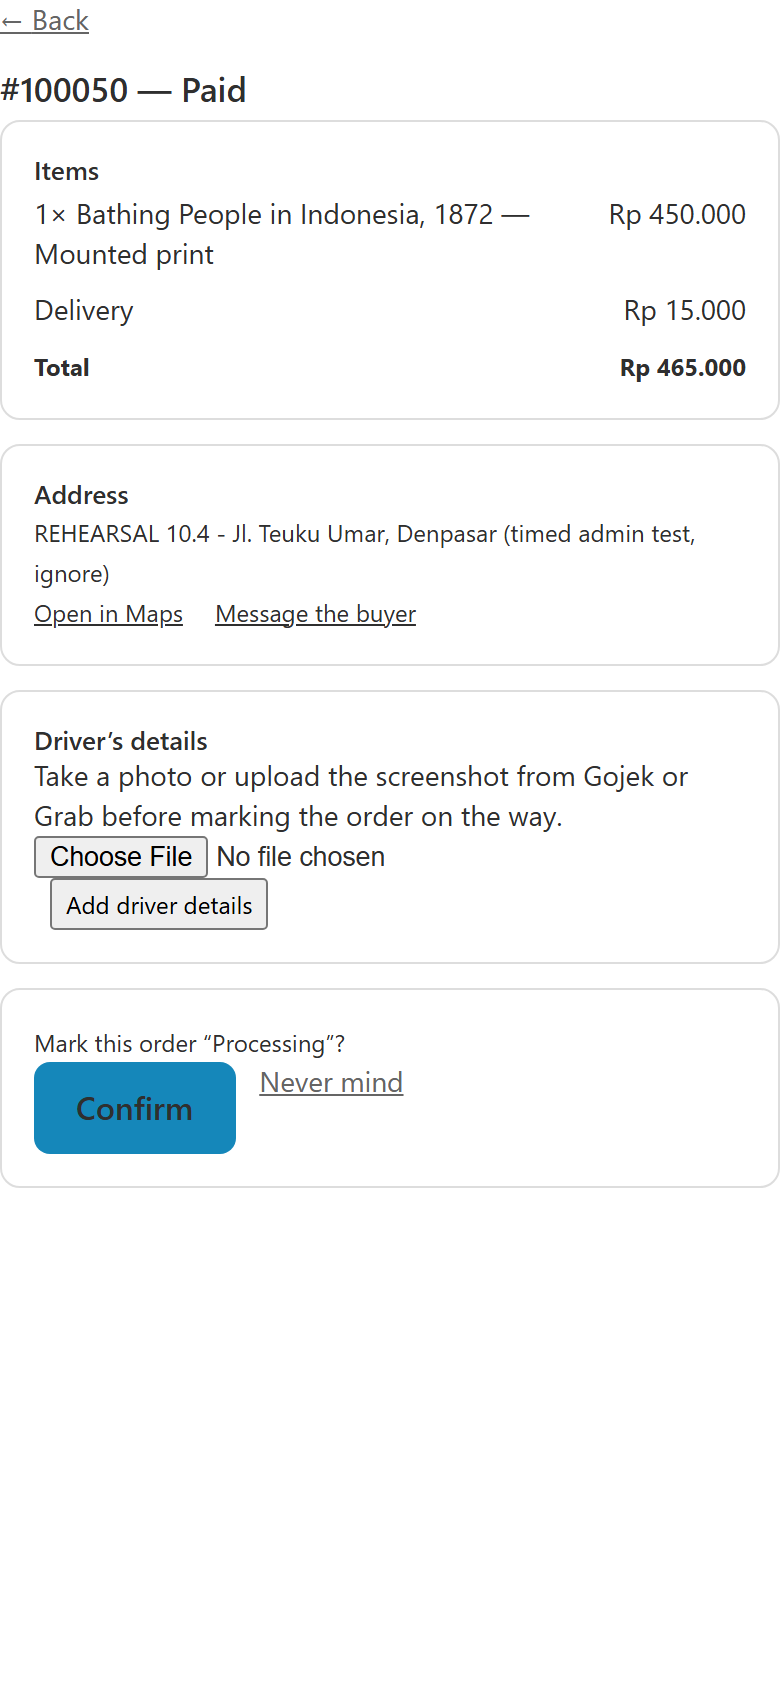
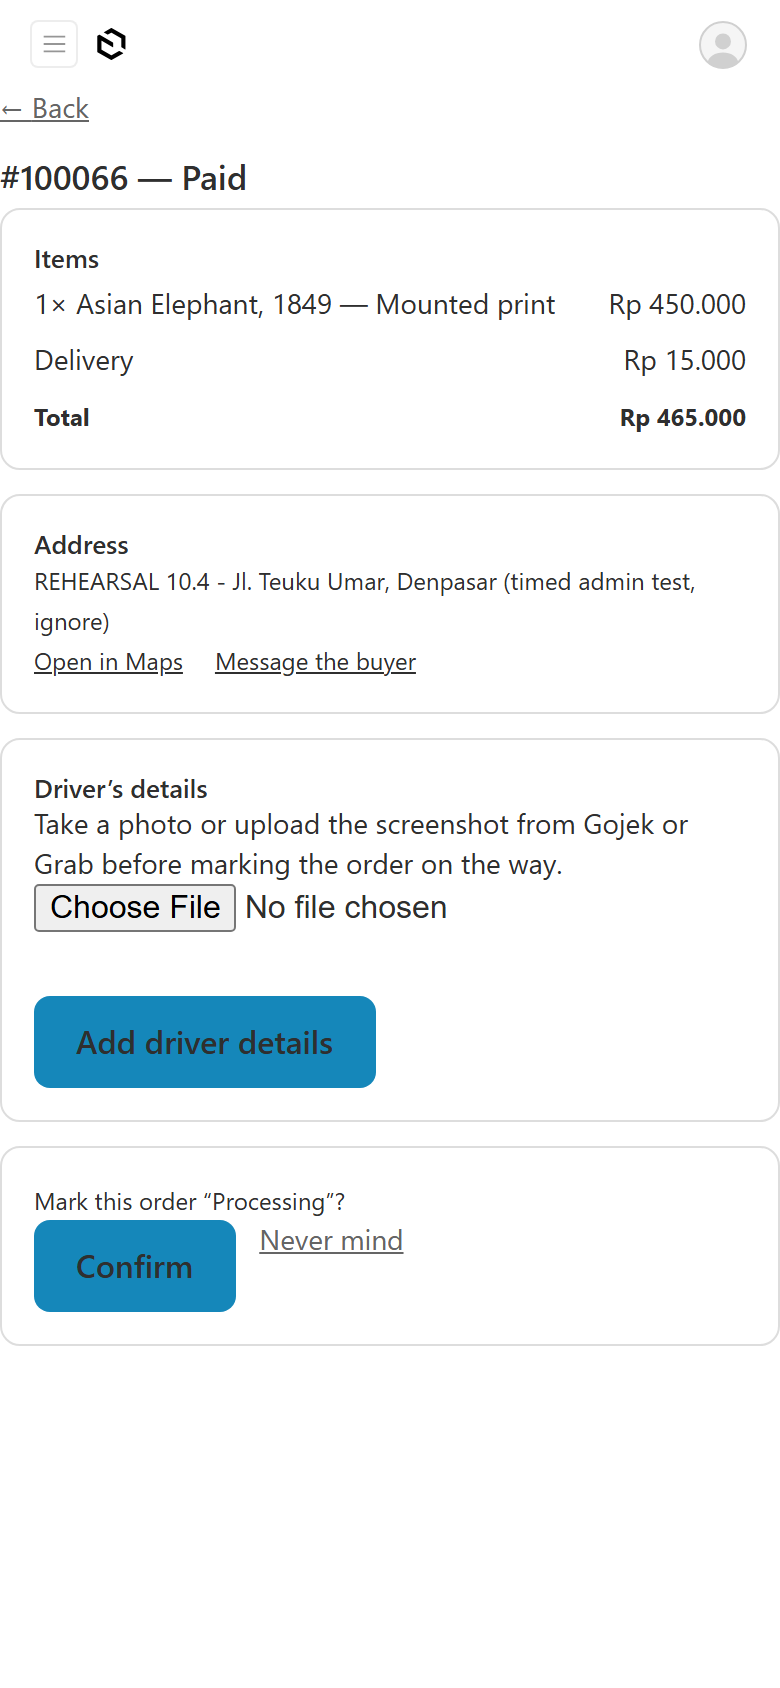
docs(board): 10.8 closed — the admin recipes pass on staging at both widths; phase 10 waits on 10.4 (the owner's people)

diff --git a/tests/e2e/admin-usability/04-store-order.spec.ts b/tests/e2e/admin-usability/04-store-order.spec.ts
@@ -147,7 +147,13 @@ test.describe.serial('R4 store user moves an order to delivered', () => {
     squeezed.push(`orders-list ${await overflow(page)}`)
     const listUrl = page.url()
     done('dashboard to the orders list')
-    await tap('open', page.getByRole('link', { name: new RegExp(`^#?${number}$`) }).first())
+    await tap(
+      'open',
+      page
+        .locator('a[href^="/admin/orders/"]')
+        .filter({ hasText: `#${number}` })
+        .first(),
+    )
     await page.waitForLoadState('networkidle')
     await expect(page).toHaveURL(/\/orders\/\d+/)
     const id = Number(/orders\/(\d+)/.exec(page.url())![1])

diff --git a/TASKS.md b/TASKS.md
@@ -25,9 +25,9 @@ Rebuilt from the checkboxes **automatically** — by the git pre-commit hook on 
 | **7** Shop: fulfilment and tracking | Shop | 6 | ✅ done | 4/4 | 13/13 | 0 | `██████████` 100% |
 | **8** AI | AI | 3, 5, 6 | ✅ done | 4/4 | 16/16 | 0 | `██████████` 100% |
 | **9** Partners, leads, analytics and SEO | Growth | 5, 6 | ✅ done | 4/4 | 16/16 | 0 | `██████████` 100% |
-| **10** Hardening and the staging rehearsal 👤 | Launch | 7, 8, 9 | 🔄 in progress | 6/8 | 28/32 | 1 | `█████████░`  88% |
+| **10** Hardening and the staging rehearsal 👤 | Launch | 7, 8, 9 | 🔄 in progress | 7/8 | 29/32 | 1 | `█████████░`  91% |
 | **11** Launch 👤 | Launch | 10 | · not started | 0/4 | 0/14 | 7 | `░░░░░░░░░░`   0% |
-| **All** | 11 phases | | | **48/54** | **203/221** | **8** | `█████████░`  92% |
+| **All** | 11 phases | | | **49/54** | **204/221** | **8** | `█████████░`  92% |
 <!-- progress:end -->
 
 ## Stages and milestones
@@ -78,7 +78,6 @@ One row per agent in flight. The orchestrator adds a row when it dispatches a ta
 
 | Wave | Task | Agent | Worktree / branch | Since | Note |
 | ---- | ---- | ----- | ----------------- | ----- | ---- |
-| 10·W2 | 10.8 Staff admin gaps from the 10.4 proxy run | medior | `worktree-agent-a5ce820d46bdba8fc` | 2026-10-09 | |
 
 ## Decisions for the owner
 
@@ -781,7 +780,7 @@ Paste this into a Claude Code session opened at the repo root:
   - [x] 10.7.b a payment after expiry (COMMERCE.md §13): if the same store still holds every unit, re-take them in the same transaction and mark the order `paid`; else `paid` with "reassign, or cancel and return the money"; the flag stays until staff clear it, and the panel offers that
   - [x] 10.7.c **Check:** db tests for both (stock short, stock present, concurrent retake); on staging the late-payment spec (`tests/e2e/rehearsal/late-payment.spec.ts`) ends with the order paid at its store, and a replacement of a delivered order reaches the store panel.
 
-- [ ] **10.8 Staff admin gaps from the 10.4 proxy run** · needs: phase 7 — 🔄 10·W2
+- [x] **10.8 Staff admin gaps from the 10.4 proxy run** · needs: phase 7 — ✅ 2026-10-09 bfbb930d
   - **Lane** CMS · **Agent** medior (Sonnet), senior-uiux review · **Wave** W2
   - **Owns** `engine/packages/cms/src/admin/{leads,widgets,dashboard,stock-import}/**`, `engine/packages/cms/src/collections/{products,media,stock-levels}/admin/**` (CONTENT-OPERATIONS.md changes go to 10.4.b)
   - **Read** `docs/gates/admin-usability.md`, CONTENT-OPERATIONS.md §3–§5, 3.7 (the import)
@@ -789,7 +788,7 @@ Paste this into a Claude Code session opened at the repo root:
   - [x] 10.8.a the stock spreadsheet import in the admin (3.7's importer behind an upload screen with its rejected-rows report), or CONTENT-OPERATIONS says how the owner hands it over instead
   - [x] 10.8.b leads: Reply on WhatsApp and Reply by email on a lead; product intake: image fields default sensibly, the category picker lists categories only, a duplicate SKU says which product has it
   - [x] 10.8.c store staff land on their order panel (the dashboard); the driver-details button is phone-sized (with 10.7's owner for `admin/orders/**`); the owner's two sidebar entries both named "Leads" (the list and the inbox) get distinct names
-  - [ ] 10.8.d **Check:** `tests/e2e/admin-usability/` re-run on staging: every recipe passes unaided at its target.
+  - [x] 10.8.d **Check:** `tests/e2e/admin-usability/` re-run on staging: every recipe passes unaided at its target.
 
 ---
 
@@ -860,6 +859,8 @@ Each line is a thing we chose not to build now; design it against the real need 
 - [ ] v2.12 The made-to-order configurator and room plates — _Requirements: 5.1_
 
 ## Log
+
+- 2026-10-09 — ✅ **10.8 closed** (Sonnet built, orchestrator reviewed and finished on staging `252b625a`). **Import stock** (owner, `/admin/stock-import`: CSV preview then apply through the 3.7 importer; `.xlsx` not read — needs a dependency, the user's call), **Reply on WhatsApp / by email** on a lead, the category picker lists categories, a duplicate SKU names its product, image intake guidance (subject, role and provenance deliberately never pre-filled), store staff land on their **Order panel**, **Leads inbox** named apart. Found on the way and fixed by the orchestrator: the custom admin pages (order panel, inbox, import) rendered **without Payload's frame** — no sidebar, so a store user on their panel could not reach Stock — now inside `DefaultTemplate` (`admin/page.jsx`; `@payloadcms/next` 3.90.2 added to the cms package, one copy). **Check:** `tests/e2e/admin-usability/` on staging, every recipe passes at both widths (gate `docs/gates/admin-usability.md`, re-run note). **Follow-ups:** the store user's landing is blank for about a second (the redirect runs in the streamed dashboard; move it to the proxy); `orders.stock_held` column (10.7); the rehearsal specs share checkout's 10/hour per address (wait it out, as here). Phase 10 now waits on **10.4** alone: the owner's people.
 
 - 2026-10-09 — ✅ **10.7 closed** (Opus built, orchestrator reviewed). **Replace damaged item** (owner, editor, on a delivered order): a Rp 0 `replacement` order linked both ways, `processing` at the original's store, stock taken atomically (short → nothing written), history on both, the buyer's tracking email. **Late payments** (COMMERCE.md §13): an expired order is `paid` — units re-taken all-or-none at its store, or flagged "stock gone — reassign, or cancel and refund"; a cancelled order stays cancelled, flagged for a refund; staff **clear the flag** with a note. 13 new db tests incl. ten concurrent replays (stock once) and a late payment racing a checkout for the last unit (sold once). On staging (`production-20261009T091838Z-dad846ef`): `late-payment.spec.ts` (paid at DPS-004, unit re-taken, flag cleared) and `replacement.spec.ts` (the replacement reaches the store panel) pass. **Follow-ups:** an order paid with its stock gone is marked by a history note (`shop/fulfilment/held-units.ts`) — replace with an `orders.stock_held` column in the next migration; the buyer's order page shows no late-payment text now that the order is paid (`server/shop/payment/load-order.ts`); a replacement sends the store no email; a late payment counts its discount use again (can pass `usage_limit` by one).
 

diff --git a/docs/gates/admin-usability.md b/docs/gates/admin-usability.md
@@ -1,6 +1,8 @@
 # Gate — the timed admin tests (10.4)
 
-> **Orchestrator review, 2026-10-09.** (1) **Recipe 5 is not broken, and passes with a stumble:** the shop's Distance bands and Social links rows were *collapsed* (Payload keeps each user's collapsed rows), and a collapsed row shows only its header, so it looked empty. **Show All** opens them: bands 5 km Rp 10,000 / 15 km Rp 15,000 / 30 km Rp 20,000, editable; the shop's AI group and Free delivery over render on every load. (2) Fixed: **F1** and **F2** (the dashboard's Orders to act on and New leads open the panel and the inbox), **F3** ("Rentang jarak"), and a new **Order panel** link in the sidebar for owner, editor and store staff (`admin/orders/nav-link.jsx`) — the cause of recipe 4's "not unaided". (3) The gaps that are features, not fixes, are tasks **10.7** and **10.8** in TASKS.md.
+> **Orchestrator review, 2026-10-09.** (1) **Recipe 5 is not broken, and passes with a stumble:** the shop's Distance bands and Social links rows were _collapsed_ (Payload keeps each user's collapsed rows), and a collapsed row shows only its header, so it looked empty. **Show All** opens them: bands 5 km Rp 10,000 / 15 km Rp 15,000 / 30 km Rp 20,000, editable; the shop's AI group and Free delivery over render on every load. (2) Fixed: **F1** and **F2** (the dashboard's Orders to act on and New leads open the panel and the inbox), **F3** ("Rentang jarak"), and a new **Order panel** link in the sidebar for owner, editor and store staff (`admin/orders/nav-link.jsx`) — the cause of recipe 4's "not unaided". (3) The gaps that are features, not fixes, are tasks **10.7** and **10.8** in TASKS.md.
+
+> **Re-run after 10.7 and 10.8 (orchestrator, 2026-10-09, staging `252b625a`): every recipe passes.** R1 add and publish a product 9.0 s / 14 clicks (< 3 min) · R2 Import stock 2.2 s / 4 (< 10 min) · R3 work a lead, with Reply on WhatsApp and by email, 3.9 s / 5 (< 1 min) · R4 the store user from their landing page to Delivered, unaided, 10.4 s at 1280 and 10.8 s at 390, 10 taps (two per step) · R5 every distance-band fee edited and restored 1.5 s / 3 (< 2 min) · R6 Replace damaged item 4.5 s / 2 (< 2 min). Machine times are a floor, not a person's. Left for people (10.4.a): reading, thinking and the wording. Stumbles still true: the sidebar starts closed; the bands open collapsed (Show All); Payload renders far fields only when scrolled to; the store user's landing shows a blank page for about a second before the redirect lands.
 
 **Task:** TASKS.md 10.4 · **Environment:** Helios staging (`old-east-indies.gaiada.com/admin`) · **Run:** 2026-10-09, twice (`run1`, `run2`) · **Status:** 10.4.a **not met** — the owner's people have not run it; this file holds the qa agent's proxy run only.
 
